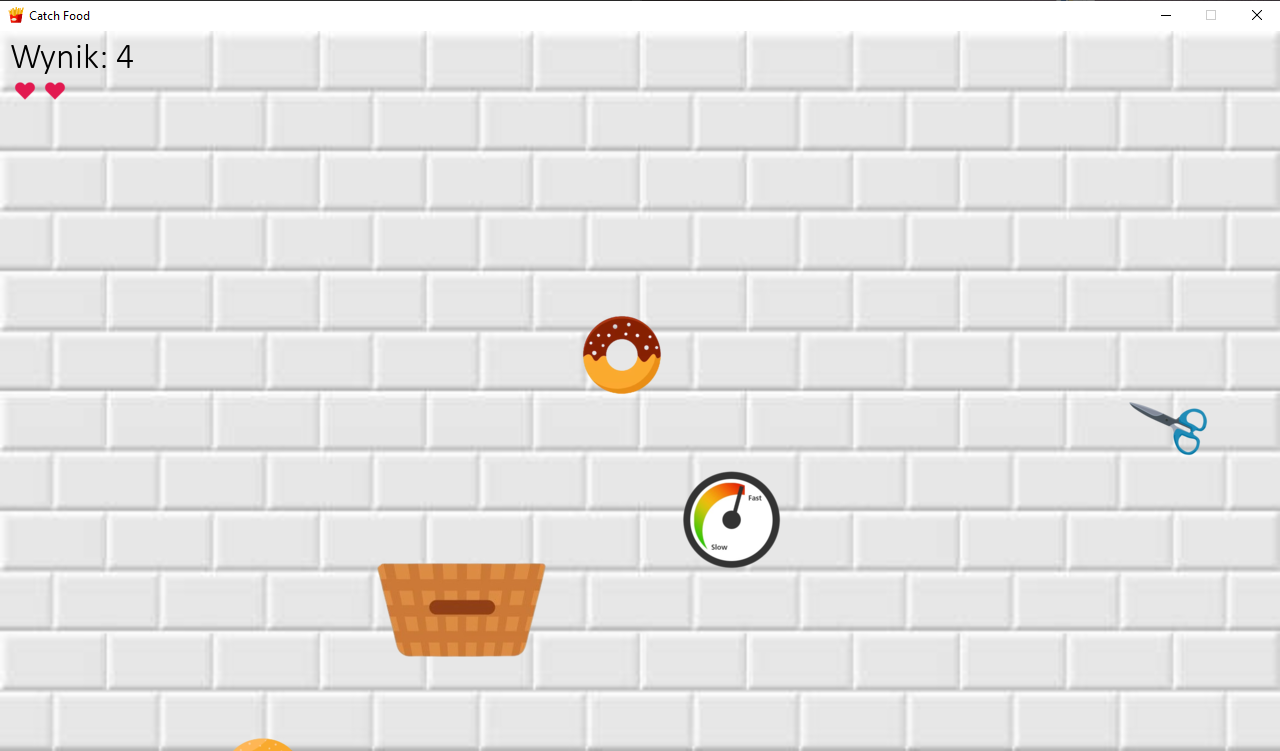
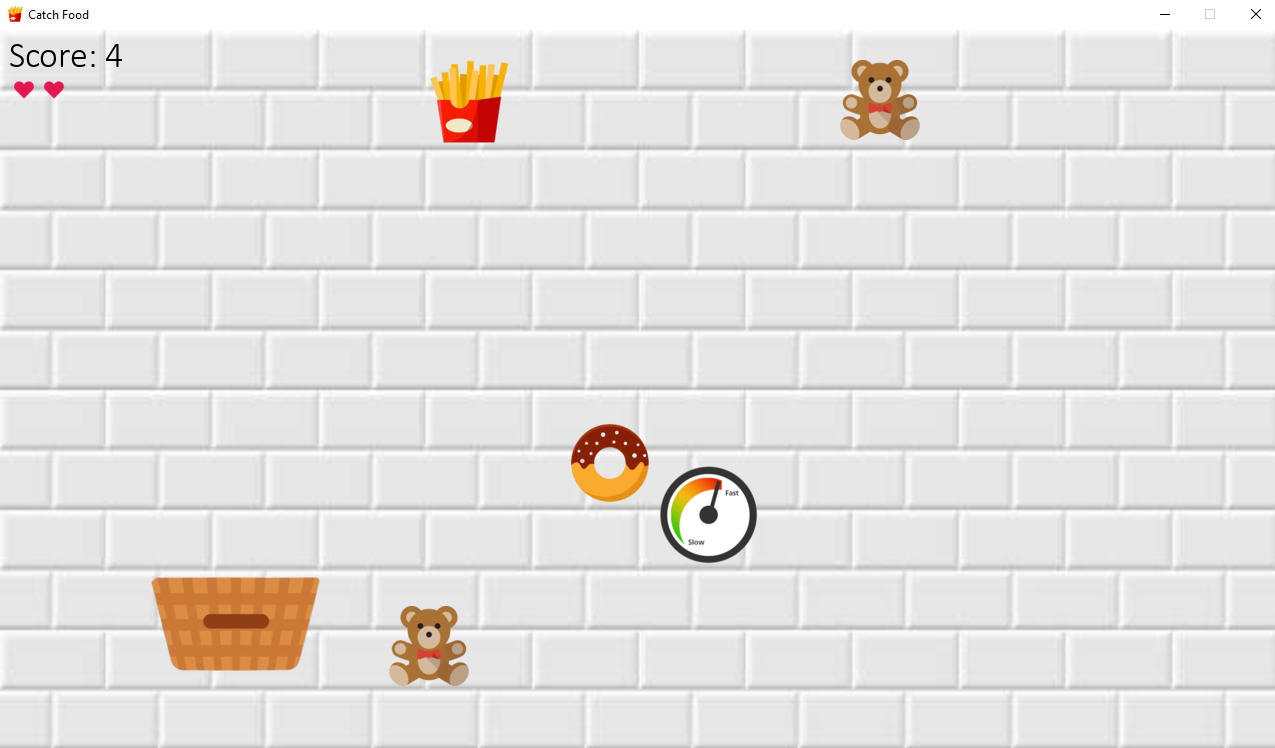
assets + README

diff --git a/CatchFood_Game.py b/CatchFood_Game.py
@@ -199,7 +199,7 @@ def single():
                 bonus_time = 0
 
 
-        score_text = pygame.font.Font.render(pygame.font.SysFont("Calibri", 36), f"Wynik: {score}", True, (0, 0, 0))
+        score_text = pygame.font.Font.render(pygame.font.SysFont("Calibri", 36), f"Score: {score}", True, (0, 0, 0))
         # CHECK COLLISION
         for item in food:
             if player.hitbox.colliderect(item.hitbox):
@@ -246,7 +246,7 @@ def main():
     button_scoreboard = Button(892, 500, 4)
 
     icon_menu = MenuIcon(100, 30)
-    text_menu = MenuText(580, 250, 250, 45, background_text="Wpisz swoje imie")
+    text_menu = MenuText(580, 250, 250, 45, background_text="Enter your name")
     error = False  # user_name
     approved = False  # user_name
 

diff --git a/CatchFood_Classes.py b/CatchFood_Classes.py
@@ -50,7 +50,7 @@ class UserScore:
         sorted_scores = sorted(scores, key=lambda x: x['score'], reverse=True)
 
         for stats in sorted_scores:
-            text = f"[{s}] Wynik: {stats['score']} - {stats['name']}"
+            text = f"[{s}] Score: {stats['score']} - {stats['name']}"
             if s == 1:
                 text_surface = pygame.font.Font.render(score_font_best, text, True, (255, 215, 0))
             elif s == 2:
